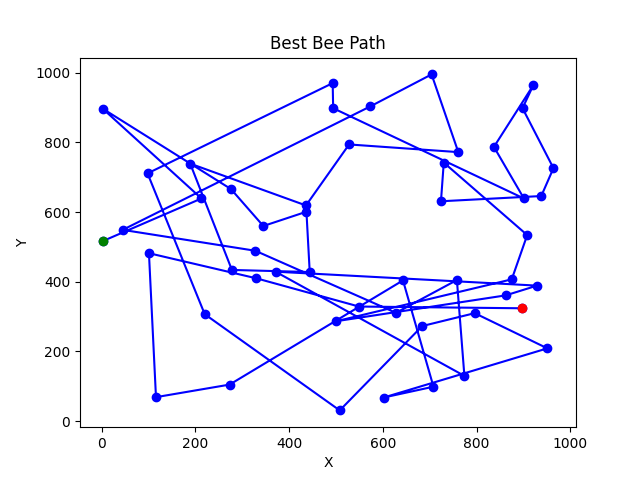
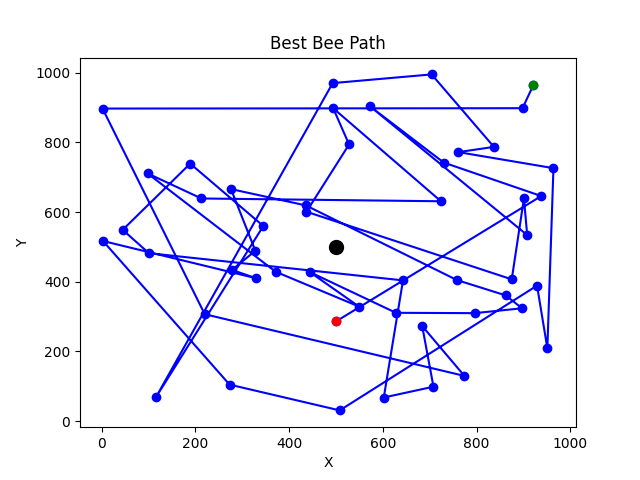
cleaning

diff --git a/main.py b/main.py
@@ -2,6 +2,7 @@ import os
 import statistics
 import random
 import matplotlib.pyplot as plt
+import networkx as nx
 from beehive import Flower, Beehive
 
 class Generation(Beehive):
@@ -16,7 +17,7 @@ class Generation(Beehive):
 
         for generation in range(1, num_generations + 1):
             if generation == 1:
-                self.genome_list = self.butiner(100)
+                self.genome_list = self.forager(100)
                 self.verify_flowers()
             else:
                 self.selection()
@@ -25,17 +26,18 @@ class Generation(Beehive):
                 self.verify_duplicate_flowers()
 
             self.generation += 1
-            # self.mutation(generation)
+            self.mutation(generation)
             avg_distance = round(statistics.mean(distance for _, distance in self.genome_list), 2)
             self.avg_distances.append(avg_distance)
-            print(f"Generation {self.generation}: Average distance: {avg_distance}")
+
+            if self.generation >= num_generations:
+                break
             
     def mutation(self, generation):
         """
         Mutates one bee genome if the average distance is the same for 5 generations.
         """
         if len(self.avg_distances) >= 5 and len(set(self.avg_distances[-3:])) == 1:
-            print(f"Mutation in generation {generation}")
             mutated_bee_index = random.randint(0, len(self.genome_list) - 1)
             bee_genome, _ = self.genome_list[mutated_bee_index]
             if len(bee_genome) >= 2:
@@ -55,17 +57,23 @@ class Generation(Beehive):
         best_bee_genome, _ = min(self.genome_list, key=lambda x: x[1])
         x_values = [flower.x for flower in best_bee_genome]
         y_values = [flower.y for flower in best_bee_genome]
-
+        """
+        Saves the best bee path graph.
+        """
         plt.figure()
         plt.plot(x_values, y_values, marker='o', linestyle='-', color='b')
         plt.plot(x_values[0], y_values[0], marker='o', color='g')  # Starting point in green
         plt.plot(x_values[-1], y_values[-1], marker='o', color='r')  # Ending point in red
+        plt.scatter(500, 500, s=100, c='black', marker='o')
         plt.title('Best Bee Path')
         plt.xlabel('X')
         plt.ylabel('Y')
         plt.savefig('graphs/best_bee_path.png')
         plt.show()
-
+        
+        """
+        Saves the average distance evolution graph.
+        """
         plt.figure()
         plt.plot(range(1, len(self.avg_distances) + 1), self.avg_distances, marker='o', linestyle='-', color='r')
         plt.title('Evolution of Average Distance')

diff --git a/beehive.py b/beehive.py
@@ -39,7 +39,7 @@ class Beehive(Flower):
         self.flowers = flowers
         self.distance_matrix = self.matrix()  
 
-    def butiner(self, num_iterations):
+    def forager(self, num_iterations):
         """
         Creates a list of bee genomes and their respective distances. This is for the first generation of bees.
         """

diff --git a/readme.md b/readme.md
@@ -1,0 +1,69 @@
+
+# Honey and bees
+
+Project done using : 
+
+![Python](https://img.shields.io/badge/python-3670A0?style=for-the-badge&logo=python&logoColor=ffdd54)
+
+## Project
+
+The project is focused on a genetic algorithm that will allow the creation and management of a beehive and its evolution throughout multiple generations.
+
+The goal is to reach a bee generation that will go through the 50 available flowers using the shortest path possible. 
+
+## Solution and implementation
+
+The algorithm is focused around core methods that are:
+* Forager
+* Selection
+* Reproduction
+
+The **forager** method is used only once in the algorithm and its main goal is to create the first generation of bees using randomly generated bees and their foraging routes.
+
+The second method **selection** is used to select, out of the 100 bees, the 50 fastest bees by simply sorting the average distance from lowest to highest and taking the first 50 bees in the list.
+
+The third and last core method is the **reproduction** method which is simply used to manage the creation of new bees using the **genome list** of the 50 remaining bees.
+
+The **genome list** is a list of list containing the list of flowers the bee has traveled to and the distance the bee has traveled.
+
+Other methods used are mainly for checking the number of flowers in each bee genome list, checking for duplicate flowers and the management of the mutation strategy. 
+
+### Without checking for duplicates
+
+The first test case will be by using an algorithm that doesn't check for the number of flowers in each genome list, doesn't check for duplicates and has no mutation strategy.
+
+[![Image](https://i.goopics.net/fnasg7.png)](https://goopics.net/i/fnasg7)
+
+What we can see on the graph is that the average distance for each generation does go down gradually but it stagnates quite fast (around the generation 8/11 on average) and is then stuck around 18,000 to 20,000 average distance. 
+
+### While checking for duplicates
+
+For the second test case I have introduced two new methods that will:
+* Check the number of flowers in each bee genome list twice, the first time when the first generation has been created and the second time when the **reproduction** method is used to create 50 new bees
+* Check if there are duplicate flowers in each bee genome list
+
+With these methods we are able to ensure that each bee visits 50 flowers each time and that there are 50 unique flowers in each bee genome list.
+
+[![Image](https://i.goopics.net/hnm4sc.png)](https://goopics.net/i/hnm4sc)
+
+As we can see with the graph below it has helped with lowering the average distance quite a bit. We are now averaging 13,000 to 14,000 instead of 18,000 to 20,000.
+
+### With mutation strategy
+
+Now that we are averaging a lower distance per generation we will be introducing a mutation strategy.
+
+The mutation method used here is quite simple, we are triggering a mutation when the average distance stays the same for 3 generations. The **mutation** method then takes a random bee out of the 100 and switches two random flowers in the genome list. 
+
+This is mainly used to get out of stagnation by introducing a new variable. 
+[![Image](https://i.goopics.net/cv8vuw.png)](https://goopics.net/i/cv8vuw)
+
+Of course, as we can see with the graph the stagnation is still quite present but we manage to lower the average distance.
+Here we are managing to get to  10,000 ~ 11,000 with 2000 generations.
+
+## Conclusion
+
+In conclusion, the genetic algorithm developed for the management and optimization of the beehive has demonstrated promising results, particularly in terms of improving the efficiency of bee foraging routes. Through systematic implementation and careful consideration of various methods such as **forager**, **selection**, **reproduction**, and the introduction of checks for duplicates and a mutation strategy, the algorithm has shown a significant reduction in the average distance traveled by bees over multiple generations.
+
+Other mutation strategies are available, such as the use of a method that switches the place of two flowers by taking into account the average distance and always switching two flowers that will lower that distance, but we opted to use a simple random method. The introduction of this mutation strategy, triggered to overcome stagnation, has further contributed to the algorithm's ability to continuously optimize bee behavior and enhance overall performance. 
+
+
